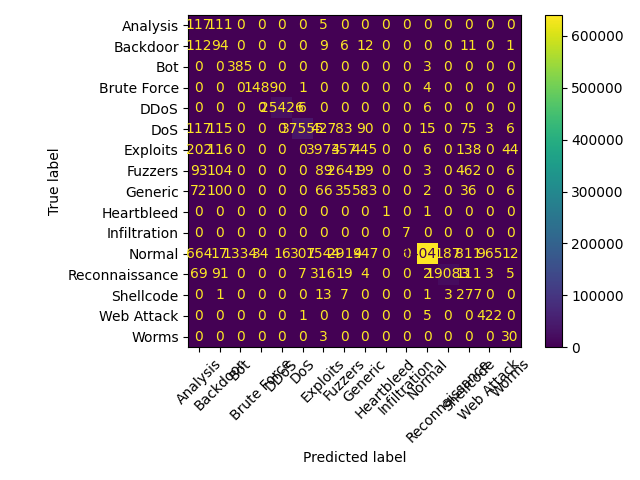
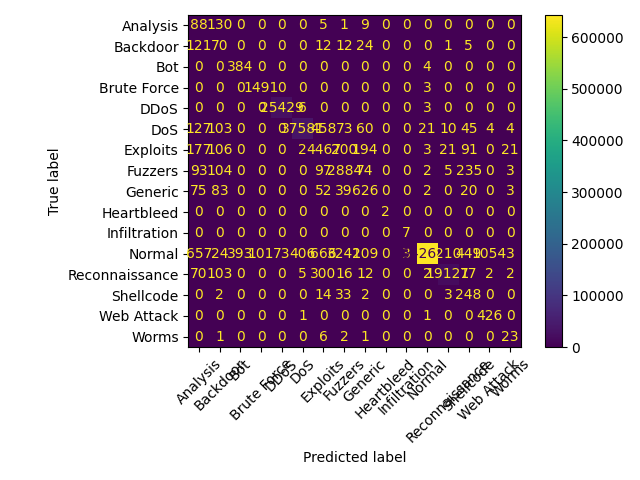
update ib XGBoost code

diff --git a/training_Multiclass_XGboost.py b/training_Multiclass_XGboost.py
@@ -121,38 +121,33 @@ sample_weights = np.array([class_weight_dict[y] for y in y_train])
 # Train XGBoost classifier with sample weights
 print("Training XGBoost classifier with sample weights...")
 xgb_clf = xgb.XGBClassifier(
-    # Core
     objective="multi:softprob",
     num_class=16,
-    tree_method="hist",          # "gpu_hist" if GPU available
-    eval_metric="mlogloss",
-    
-    # Tuned hyperparams
-    n_estimators=800,            # many trees, balanced by smaller LR
-    learning_rate=0.05,          # smaller step size for stability
-    max_depth=9,                 # deeper splits to capture rare-class patterns
-    min_child_weight=3,          # less strict, lets model capture minority classes
-    gamma=0.2,                   # min loss reduction required to split
-    subsample=0.8,               # row sampling
-    colsample_bytree=0.8,        # feature sampling
-    colsample_bylevel=0.8,       # per-level feature sampling
-    colsample_bynode=0.8,
-    
-    # Regularization
-    reg_alpha=0.5,               # stronger L1 regularization → sparsity helps prevent noise
-    reg_lambda=1.5,              # stronger L2 to stabilize
-    
-    # Imbalance handling
-    max_delta_step=1,            # stabilizes updates for rare classes
-    
-    # Efficiency
+    tree_method="hist",      # "gpu_hist" if GPU available
+    n_estimators=400,
+    learning_rate=0.05,
+    max_depth=9,
+    min_child_weight=3,
+    gamma=0.2,
+    subsample=0.8,
+    colsample_bytree=0.8,
+    reg_alpha=0.5,
+    reg_lambda=1.5,
+    max_delta_step=1,
     n_jobs=-1,
-    random_state=42
+    random_state=42,
+    early_stopping_rounds=50,
+    eval_metric="mlogloss"   
 )
 
-# 2.4 Train the model
-print("\nTraining the multiclass XGBoost model with sample weights...")
-xgb_clf.fit(X_train_scaled, y_train, sample_weight=sample_weights)
+xgb_clf.fit(
+    X_train_scaled, y_train,
+    sample_weight=sample_weights,
+    eval_set=[(X_test_scaled, y_test)],
+    verbose=50
+)
+
+
 
 # 2.5 Make predictions on test set
 print("Making predictions...")
